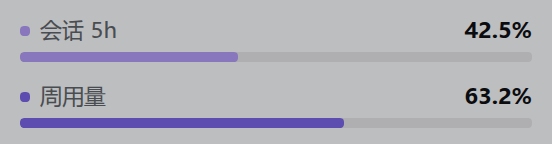
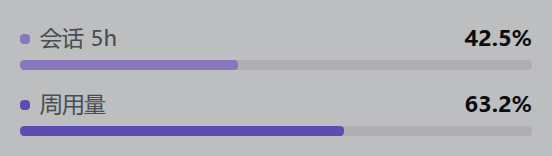
style(ui): 侧边栏用量条补充上下间距并更新预览截图

diff --git a/lib/client.js b/lib/client.js
@@ -96,7 +96,7 @@ window.__ModuleLoader__.load({
       // 侧栏底部空间窄:用 5px 圆点把标签和填充色绑定,数值右对齐,进度条压到 5px;
       // 填充色由行内 --olusa-fill 注入,达到 70%/90% 阈值时切换警告/错误语义色,
       // 与面板里的用量配色保持一致。
-      '.olusa-bars{display:flex;flex-direction:column;gap:10px;padding:0;width:100%;min-width:0;flex:1 1 auto;box-sizing:border-box;background:transparent;border:none}',
+      '.olusa-bars{display:flex;flex-direction:column;gap:10px;padding:8px 0 6px;width:100%;min-width:0;flex:1 1 auto;box-sizing:border-box;background:transparent;border:none}',
       '.olusa-barsrow{display:flex;flex-direction:column;gap:4px;min-width:0}',
       '.olusa-barshead{display:flex;align-items:center;justify-content:space-between;gap:8px;min-width:0}',
       '.olusa-barslabel{display:inline-flex;align-items:center;gap:5px;min-width:0;font:var(--dsw-font-xxxs-11);color:var(--dsw-alias-label-secondary);white-space:nowrap}',
@@ -368,7 +368,7 @@ window.__ModuleLoader__.load({
             React.createElement('button', { className: 'olusa-btn', disabled: busy, onClick: () => doCheck('') }, busy ? '查询中…' : '刷新')
           ),
           body,
-          React.createElement('div', { className: 'olusa-ver' }, 'dsh-ollama-usage · v0.1.15')
+          React.createElement('div', { className: 'olusa-ver' }, 'dsh-ollama-usage · v0.1.16')
         )
       }
 

diff --git a/README.en.md b/README.en.md
@@ -114,7 +114,7 @@ Since DSH 0.2.1 the compatibility gate prefers `engines.dsh`. This plugin declar
 
 > Only versions that were **actually run** are listed; untested versions are omitted.
 
-v0.1.15 targets DSH **≥0.1.5-rc.1** (the `@deepseek-ai/dsh-*` peer was relaxed to `>=0.1.7-rc.1`), verified on **0.1.5-rc.1 / 0.1.5-rc.2 / 0.1.6-alpha.2 / 0.1.7-rc.1 / 0.1.7-rc.2 / 0.2.0-rc.1** (all RPC envelope probes pass; on 0.1.7-rc.2 the `/ollama-usage/snapshot` endpoint returns as measured; on 0.2.0-rc.1 it passes the new compatibility gate and loads normally; on 0.2.1-rc.1 the gate and RPC envelope probes pass, and 0.2.1-rc.2 passes the gate); for older DSH (0.1.0-rc.5 ~ rc.8) use the last compatible npm version, **0.1.5**.
+v0.1.16 targets DSH **≥0.1.5-rc.1** (the `@deepseek-ai/dsh-*` peer was relaxed to `>=0.1.7-rc.1`), verified on **0.1.5-rc.1 / 0.1.5-rc.2 / 0.1.6-alpha.2 / 0.1.7-rc.1 / 0.1.7-rc.2 / 0.2.0-rc.1** (all RPC envelope probes pass; on 0.1.7-rc.2 the `/ollama-usage/snapshot` endpoint returns as measured; on 0.2.0-rc.1 it passes the new compatibility gate and loads normally; on 0.2.1-rc.1 the gate and RPC envelope probes pass, and 0.2.1-rc.2 passes the gate); for older DSH (0.1.0-rc.5 ~ rc.8) use the last compatible npm version, **0.1.5**.
 
 ## 🛠 开发 / Develop
 

diff --git a/README.md b/README.md
@@ -117,7 +117,7 @@ DSH 0.2.1 起兼容门禁优先读取 `engines.dsh`。本插件声明 **`engines
 
 > 只列出**实际跑过**的版本；未实测的不列。
 
-v0.1.15 支持 DSH **≥0.1.5-rc.1**（`@deepseek-ai/dsh-*` peer 放宽为 `>=0.1.7-rc.1`），已在 **0.1.5-rc.1 / 0.1.5-rc.2 / 0.1.6-alpha.2 / 0.1.7-rc.1 / 0.1.7-rc.2 / 0.2.0-rc.1** 实测（RPC envelope 探针全过；0.1.7-rc.2 上 `/ollama-usage/snapshot` 实测返回；0.2.0-rc.1 上通过新的兼容性门禁并正常加载；0.2.1-rc.1 上兼容门禁与 RPC envelope 探针通过，0.2.1-rc.2 门禁通过）；旧版 DSH（0.1.0-rc.5 ~ rc.8）请使用最后兼容的 npm 版本 **0.1.5**。
+v0.1.16 支持 DSH **≥0.1.5-rc.1**（`@deepseek-ai/dsh-*` peer 放宽为 `>=0.1.7-rc.1`），已在 **0.1.5-rc.1 / 0.1.5-rc.2 / 0.1.6-alpha.2 / 0.1.7-rc.1 / 0.1.7-rc.2 / 0.2.0-rc.1** 实测（RPC envelope 探针全过；0.1.7-rc.2 上 `/ollama-usage/snapshot` 实测返回；0.2.0-rc.1 上通过新的兼容性门禁并正常加载；0.2.1-rc.1 上兼容门禁与 RPC envelope 探针通过，0.2.1-rc.2 门禁通过）；旧版 DSH（0.1.0-rc.5 ~ rc.8）请使用最后兼容的 npm 版本 **0.1.5**。
 
 ## 🛠 开发 / Develop
 

diff --git a/CHANGELOG.md b/CHANGELOG.md
@@ -5,6 +5,16 @@ All notable changes to this project are documented in this file.
 The format is based on [Keep a Changelog](https://keepachangelog.com/en/1.1.0/),
 and this project adheres to [Semantic Versioning](https://semver.org/spec/v2.0.0.html).
 
+## 0.1.16 - 2026-10-20
+
+### 新增
+
+- 侧边栏用量组件补充上下留白，与上方侧栏条目、下方账号行拉开间距，避免整行铺满后贴边。
+
+### 文档
+
+- 更新侧边栏界面预览截图，版本引用同步至 0.1.16。
+
 ## 0.1.15 - 2026-10-20
 
 ### 新增
